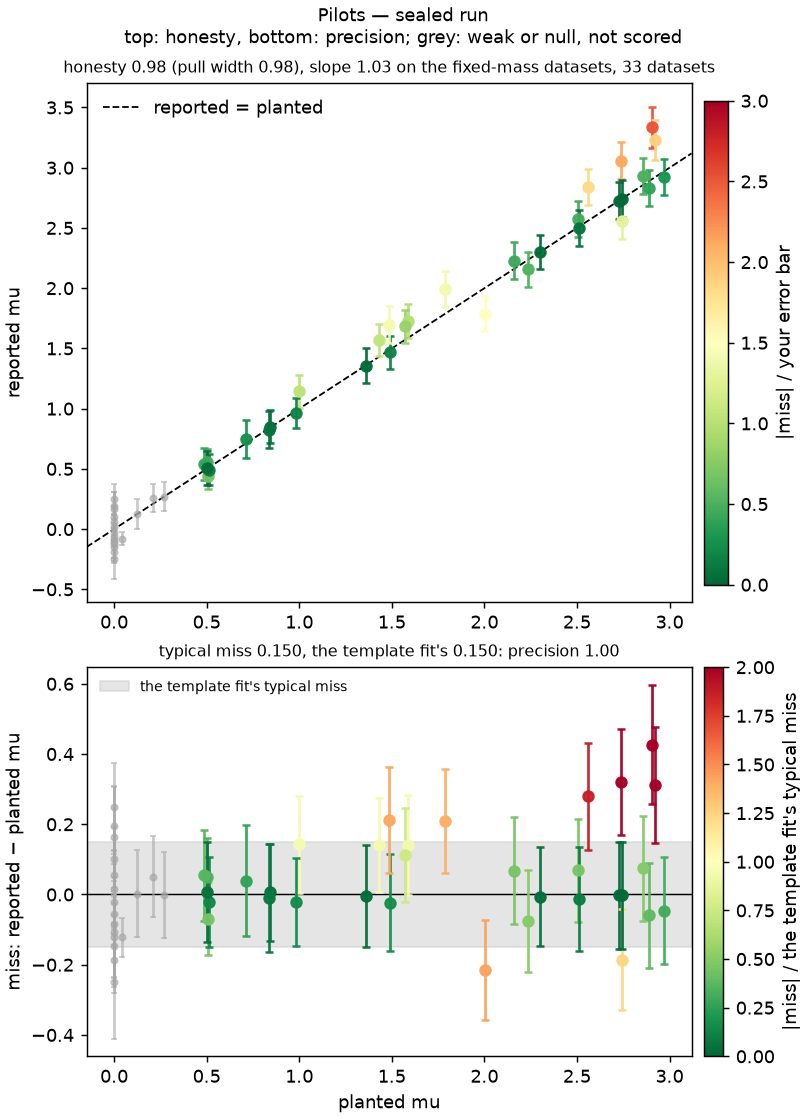
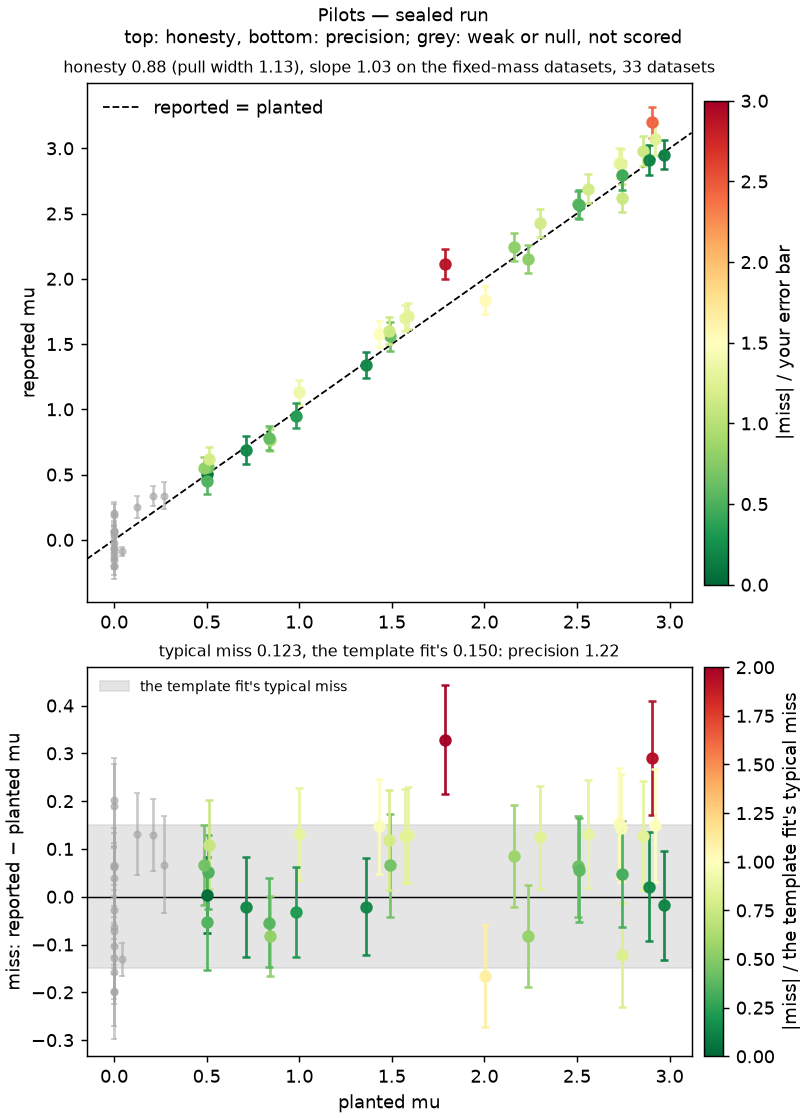
Hackathon leaderboard: sealed run of 2026-10-15 10:38 UTC

diff --git a/README.md b/README.md
@@ -50,17 +50,26 @@ Personal access tokens); from your laptop it is your usual push.
 ## Leaderboard
 
 <!-- leaderboard -->
-_Sealed run of 2026-10-15 10:22 UTC: each team's latest submission on the [issue](https://github.com/andrzejnovak/hsf-india-hww/issues/1), on 51 sealed datasets, the Higgs mass at 125 GeV in all of them and μ and the background rate planted anew in each._
+_Sealed run of 2026-10-15 10:38 UTC: each team's latest submission on the [issue](https://github.com/andrzejnovak/hsf-india-hww/issues/1), on 51 sealed datasets, the Higgs mass at 125 GeV in all of them and μ and the background rate planted anew in each._
 
 | # | team                                                              | score | precision | honesty | typical miss μ | σ μ   | pull width μ | submitted                                                                                                           |
 |---|-------------------------------------------------------------------|-------|-----------|---------|----------------|-------|--------------|---------------------------------------------------------------------------------------------------------------------|
 | 1 | [Horizon](https://github.com/AnushSingla/horizon-hsf-workshop)    | 111   | 1.26      | 0.88    | 0.119          | 0.125 | 0.88         | [458fcb0](https://github.com/AnushSingla/horizon-hsf-workshop/tree/458fcb0ae83d) 2026-10-15 09:05 by AnushSingla    |
 | 2 | [Hack-404](https://github.com/shaurya-cd/Hack-404)                | 109   | 1.24      | 0.88    | 0.121          | 0.129 | 0.88         | [0909838](https://github.com/shaurya-cd/Hack-404/tree/0909838) 2026-10-15 07:18 by shaurya-cd                       |
 | 3 | [Pilot](https://github.com/ishandhull2953/hww-hackathon)          | 108   | 1.22      | 0.88    | 0.123          | 0.103 | 1.13         | [dff9a69](https://github.com/ishandhull2953/hww-hackathon/tree/dff9a69) 2026-10-15 09:37 by ishandhull2953          |
-| 4 | [team_x](https://github.com/gauriaggarwal31/hsf-india-hww-team_x) | 103   | 1.04      | 0.99    | 0.144          | 0.138 | 1.01         | [d1f83a7](https://github.com/gauriaggarwal31/hsf-india-hww-team_x/tree/d1f83a7) 2026-10-15 09:07 by gauriaggarwal31 |
-| 5 | [baseline-mt](https://github.com/andrzejnovak/hsf-india-hww)      | 98    | 1.00      | 0.98    | 0.150          | 0.144 | 0.98         | [52ad132](https://github.com/andrzejnovak/hsf-india-hww/tree/52ad132c99de) 2026-10-14 08:25 by andrzejnovak         |
-| 6 | [Pilots](https://github.com/ishandhull2953/hww-hackathon)         | 98    | 1.00      | 0.98    | 0.150          | 0.144 | 0.98         | [69e717a](https://github.com/ishandhull2953/hww-hackathon/tree/69e717a) 2026-10-15 08:29 by ishandhull2953          |
+| 4 | [Pilots](https://github.com/ishandhull2953/hww-hackathon)         | 108   | 1.22      | 0.88    | 0.123          | 0.103 | 1.13         | [dff9a69](https://github.com/ishandhull2953/hww-hackathon/tree/dff9a69996a9) 2026-10-15 10:31 by ishandhull2953     |
+| 5 | [team_x](https://github.com/gauriaggarwal31/hsf-india-hww-team_x) | 103   | 1.04      | 0.99    | 0.144          | 0.138 | 1.01         | [d1f83a7](https://github.com/gauriaggarwal31/hsf-india-hww-team_x/tree/d1f83a7) 2026-10-15 09:07 by gauriaggarwal31 |
+| 6 | [baseline-mt](https://github.com/andrzejnovak/hsf-india-hww)      | 98    | 1.00      | 0.98    | 0.150          | 0.144 | 0.98         | [52ad132](https://github.com/andrzejnovak/hsf-india-hww/tree/52ad132c99de) 2026-10-14 08:25 by andrzejnovak         |
 | 7 | [baseline-nn](https://github.com/andrzejnovak/hsf-india-hww)      | 78    | 0.84      | 0.94    | 0.179          | 0.154 | 1.07         | [c549c28](https://github.com/andrzejnovak/hsf-india-hww/tree/c549c28882b3) 2026-10-14 08:26 by andrzejnovak         |
+
+<details>
+<summary><b>Earlier submissions</b> (1): by team, newest first, with the score each had</summary>
+
+| team                                                      | score | precision | honesty | typical miss μ | σ μ   | pull width μ | submitted                                                                                                  |
+|-----------------------------------------------------------|-------|-----------|---------|----------------|-------|--------------|------------------------------------------------------------------------------------------------------------|
+| [Pilots](https://github.com/ishandhull2953/hww-hackathon) | 98    | 1.00      | 0.98    | 0.150          | 0.144 | 0.98         | [69e717a](https://github.com/ishandhull2953/hww-hackathon/tree/69e717a) 2026-10-15 08:29 by ishandhull2953 |
+
+</details>
 
 <details>
 <summary><b>Recovery plots</b>, per team: honesty on top, each dataset coloured by its pull; precision below, each miss against the template fit's typical miss</summary>
@@ -77,6 +86,10 @@ _Sealed run of 2026-10-15 10:22 UTC: each team's latest submission on the [issue
 
 ![Pilot](results/Pilot.png)
 
+**Pilots** (score 108)
+
+![Pilots](results/Pilots.png)
+
 **team_x** (score 103)
 
 ![team_x](results/team_x.png)
@@ -84,10 +97,6 @@ _Sealed run of 2026-10-15 10:22 UTC: each team's latest submission on the [issue
 **baseline-mt** (score 98)
 
 ![baseline-mt](results/baseline-mt.png)
-
-**Pilots** (score 98)
-
-![Pilots](results/Pilots.png)
 
 **baseline-nn** (score 78)
 
